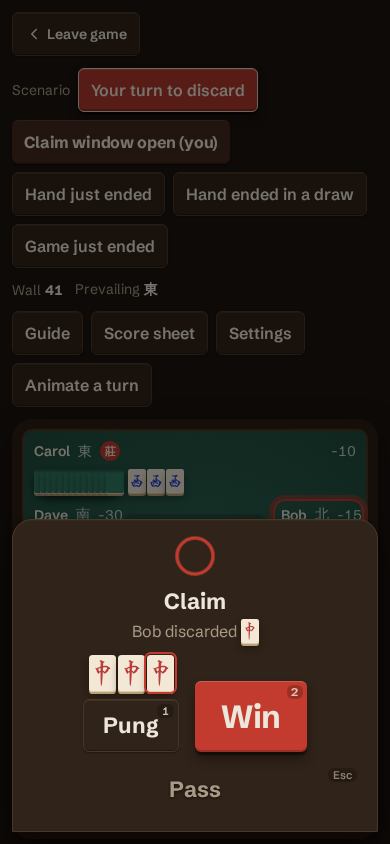
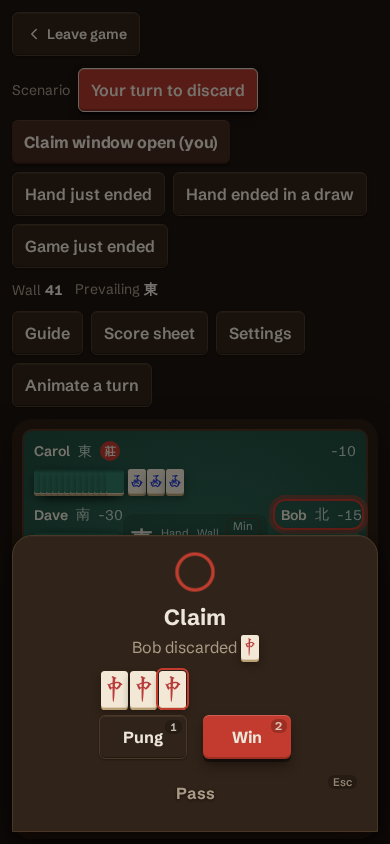
feat(web): give claim call buttons one fixed, smaller size
Claude-Session: https://claude.ai/code/session_016N6BrhuJ77Wo7osov28duU

Changed region(s): [[0.0308, 0.6161, 0.9846, 0.955], [0.8615, 0.8934, 0.8923, 0.955]]

diff --git a/web/src/lib/ui/ClaimDialog.svelte b/web/src/lib/ui/ClaimDialog.svelte
@@ -225,10 +225,10 @@
 		display: flex;
 		flex-direction: column;
 		align-items: center;
+		justify-content: center;
 		gap: 2px;
-		min-width: 6rem;
 		min-height: var(--tap-target-min);
-		padding: var(--space-3) var(--space-4);
+		padding: var(--space-2) var(--space-3);
 		font: inherit;
 		cursor: pointer;
 	}
@@ -246,8 +246,12 @@
 	}
 
 	.claim-btn-label {
-		font-size: var(--font-size-lg);
 		font-weight: 700;
+	}
+
+	// every call button shares one fixed size; only pass differs.
+	.claim-calls .claim-btn {
+		width: 5.5rem;
 	}
 
 	.claim-btn--chow,
@@ -260,17 +264,10 @@
 		@include buttons.btn-ghost;
 	}
 
-	// Win is the one option worth making unmissable -- accent background, bigger than its
-	// siblings, with the same glow treatment as SeatPlate's turn halo.
+	// win stands out by colour and the SeatPlate turn-halo glow, not size.
 	.claim-btn--win {
-		min-width: 7rem;
-		padding: var(--space-4) var(--space-5);
 		box-shadow: 0 0 0 4px var(--color-accent-glow);
 		@include buttons.btn-primary;
-	}
-
-	.claim-btn--win .claim-btn-label {
-		font-size: var(--font-size-xl);
 	}
 
 	// phone: a bottom sheet instead of a centred card -- `.claim-overlay` (+page.svelte) still

diff --git a/docs/frontend.md b/docs/frontend.md
@@ -346,8 +346,8 @@ risk: it's an acknowledgment, and the table advances at the same `deadline_ts` r
 
 **`ClaimDialog` layout.** Each option is a big button (meld preview above it, the localized kind
 label inside, a `1`-`N` key-hint badge; no CJK call glyph, no sub-label) — Win gets the same
-accent-glow treatment as a `SeatPlate` turn halo, sized up from its siblings, since it's the one
-choice worth making unmissable. Pass is always its own full-width row below the call options,
+accent-glow treatment as a `SeatPlate` turn halo, since it's the one choice worth making
+unmissable, but every call button (Win included) shares one fixed size. Pass is always its own full-width row below the call options,
 never beside them, and carries an "Esc" hint instead of a number; `1`-`N` index the call options
 only. Initial focus lands
 on Pass (an `$effect` with no reactive reads, so it fires once per mount — the dialog only mounts
